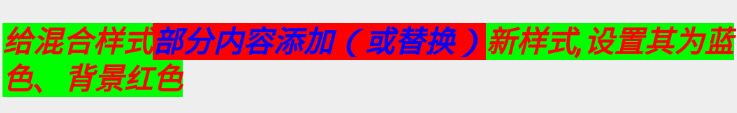
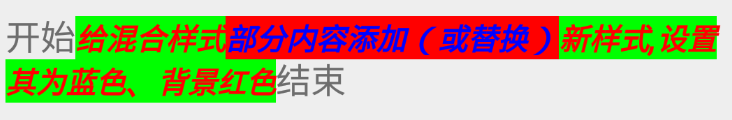
修改详细说明

diff --git a/app/src/main/java/com/zrq/spanbuilderdemo/MainActivity.java b/app/src/main/java/com/zrq/spanbuilderdemo/MainActivity.java
@@ -31,46 +31,48 @@ public class MainActivity extends AppCompatActivity {
 
         // 1.单个样式
         SpannableStringBuilder spannableStringBuilder = new SpannableStringBuilder()
-                .append(new SpanBuilder("字体30Sp\n").setTextSize(30))
-                .append(new SpanBuilder("字体红色\n").setTextColor(Color.RED))
-                .append(new SpanBuilder("字体背景绿色\n").setBackgroundColor(Color.GREEN))
-                .append(new SpanBuilder("粗斜体\n").setTextStyle(Typeface.BOLD_ITALIC))
-                .append(new SpanBuilder("自定义Style样式\n").
+                .append(new SpanBuilder("\n！！此页面看的的所有内容就是一个TextView\n\n").setBackgroundColor(Color.RED))
+                .append(new SpanBuilder("字体30Sp").setTextSize(30))
+                .append(new SpanBuilder("字体红色").setTextColor(Color.RED))
+                .append(new SpanBuilder("字体背景绿色").setBackgroundColor(Color.GREEN))
+                .append(new SpanBuilder("粗斜体").setTypeface(Typeface.BOLD_ITALIC))
+                .append(new SpanBuilder("自定义Style样式").
                         setTextAppearance(getApplicationContext(), android.R.style.TextAppearance_Small))
-                .append(new SpanBuilder("可点击\n").setClick(textView, new ClickableSpan() {
+                .append(new SpanBuilder("可点击").setClick(textView, new ClickableSpan() {
                     @Override
                     public void onClick(View widget) {
                         // ！！点击了内容，但是会触发TextView的点击事件
                         Toast.makeText(getApplicationContext(), "ClickSpan点击了", Toast.LENGTH_LONG).show();
                     }
                 }))
-                .append(new SpanBuilder("删除线\n").setDeleteLine())
-                .append(new SpanBuilder("下划线\n").setUnderLine())
-                .append(new SpanBuilder("此内容无效，会被图片给替换\n").setImage(drawable))
-                .append(new SpanBuilder("字体类型为serif\n").setTypeface("serif"))
+                .append(new SpanBuilder("删除线").setDeleteLine())
+                .append(new SpanBuilder("下划线").setUnderLine())
+                .append(new SpanBuilder("此内容无效，会被图片给替换").setImage(drawable))
+                .append(new SpanBuilder("字体类型为monospace\n").setFontFamily("monospace"))
                 .append(new SpanBuilder("设置蓝色的引用线\n").setQuote(Color.BLUE))
                 .append(new SpanBuilder("设置此内容的对齐方式为相反\n").setAlignment(Layout.Alignment.ALIGN_OPPOSITE))
-                .append(new SpanBuilder("设置字体大小为之前的1.2倍\n").setRelativeSize(1.2f))
+                .append("设置字体大小为之前的")
+                .append(new SpanBuilder("2倍\n").setRelativeSize(2.0f))
                 .append("这是")
-                .append(new SpanBuilder("上标\n").setUpLabel())
+                .append(new SpanBuilder("上标").setUpLabel())
                 .append("这是")
                 .append(new SpanBuilder("下标\n").setUnderLabel())
-                .append(new SpanBuilder("X轴缩放3倍\n").setScaleX(3f));
+                .append(new SpanBuilder("X轴缩放3倍\n\n").setScaleX(3f));
 
         // 2.混合样式
-        SpanBuilder spanBuilder = new SpanBuilder("\n\n此为混合样式应用于部分,设置字体15sp、红色、背景绿色、粗斜体\n\n\n")
+        SpanBuilder spanBuilder = new SpanBuilder("此为混合样式应用于部分,设置字体15sp、红色、背景绿色、粗斜体")
                 .setTextSize(15)
                 .setTextColor(Color.RED)
                 .setBackgroundColor(Color.GREEN)
-                .setTextStyle(Typeface.BOLD_ITALIC);
-        spannableStringBuilder.append(spanBuilder);
+                .setTypeface(Typeface.BOLD_ITALIC);
+        spannableStringBuilder.append("开始").append(spanBuilder).append("结束\n\n");
 
         // 3.给混合样式部分内容添加（或替换）新样式
-        SpanBuilder oldSpan = new SpanBuilder("给混合样式部分内容添加（或替换）新样式,设置其为蓝色、背景红色\n")
+        SpanBuilder oldSpan = new SpanBuilder("给混合样式部分内容添加（或替换）新样式,设置其为蓝色、背景红色")
                 .setTextSize(15)
                 .setTextColor(Color.RED)
                 .setBackgroundColor(Color.GREEN)
-                .setTextStyle(Typeface.BOLD_ITALIC);
+                .setTypeface(Typeface.BOLD_ITALIC);
 
         // 新样式的容器
         SpanBuilder newSpanStyle = new SpanBuilder()
@@ -79,7 +81,7 @@ public class MainActivity extends AppCompatActivity {
         // newSpanStyle里面的样式会添加（或替换）原来oldSpan的样式
         oldSpan.addNewSpanStyle(5, 16, newSpanStyle);
 
-        spannableStringBuilder.append(oldSpan);
+        spannableStringBuilder.append("开始").append(oldSpan).append("结束\n\n");
         // 4.添加其它样式
         // 4.1 作用于所有
         new SpanBuilder("X轴缩放3倍\n").setSpanAll(
@@ -99,7 +101,7 @@ public class MainActivity extends AppCompatActivity {
                 .append(new SpanBuilder("%\n").setTextSize(16).setTextColor(Color.BLACK));
 
         spannableStringBuilder
-                .append(new SpanBuilder("10").setTextSize(50).setTextColor(Color.RED).setTextStyle(Typeface.BOLD_ITALIC))
+                .append(new SpanBuilder("10").setTextSize(50).setTextColor(Color.RED).setTypeface(Typeface.BOLD_ITALIC))
                 .append(new SpanBuilder("元\n").setTextSize(16).setTextColor(Color.BLACK));
 
         spannableStringBuilder

diff --git a/spanbuilder/src/main/java/com/zrq/spanbuilder/SpanBuilder.java b/spanbuilder/src/main/java/com/zrq/spanbuilder/SpanBuilder.java
@@ -79,7 +79,7 @@ public class SpanBuilder extends SpannableString {
      *
      * @param style 设置字体类型    Typeface.BOLD_ITALIC,Typeface.BOLD,Typeface.ITALIC,Typeface.NORMAL
      */
-    public SpanBuilder setTextStyle(int style) {
+    public SpanBuilder setTypeface(int style) {
         setSpanAll(new StyleSpan(style));
         return this;
     }
@@ -142,9 +142,9 @@ public class SpanBuilder extends SpannableString {
     /**
      * 设置带有<font color="#ff0000" size="4"> 字体类型 </font>的元素
      *
-     * @param family 设置字体类型 "monospace", "serif", and "sans-serif".
+     * @param family 设置字体类型 "monospace", "serif", and "sans-serif"等
      */
-    public SpanBuilder setTypeface(String family) {
+    public SpanBuilder setFontFamily(String family) {
         setSpanAll(new TypefaceSpan(family));
         return this;
     }

diff --git a/README.md b/README.md
@@ -1,5 +1,5 @@
 # SpanBuilder
-##一个TextView可设置如下的效果
+## <font color="red"> 一个TextView可设置如下的效果</font>
 # 使用说明：
 
 ##导入
@@ -24,7 +24,7 @@ spannableStringBuilder
         .append(new SpanBuilder("%\n").setTextSize(16).setTextColor(Color.BLACK));
 
 spannableStringBuilder
-        .append(new SpanBuilder("10").setTextSize(50).setTextColor(Color.RED).setTextStyle(Typeface.BOLD_ITALIC))
+        .append(new SpanBuilder("10").setTextSize(50).setTextColor(Color.RED).setTypeface(Typeface.BOLD_ITALIC))
         .append(new SpanBuilder("元\n").setTextSize(16).setTextColor(Color.BLACK));
 
 spannableStringBuilder
@@ -42,31 +42,33 @@ textView.setText(spannableStringBuilder);
 ![image](https://github.com/zrq1060/SpanBuilderDemo/blob/master/screenshots/1.png)
 ```
 SpannableStringBuilder spannableStringBuilder = new SpannableStringBuilder()
-        .append(new SpanBuilder("字体30Sp\n").setTextSize(30))
-        .append(new SpanBuilder("字体红色\n").setTextColor(Color.RED))
-        .append(new SpanBuilder("字体背景绿色\n").setBackgroundColor(Color.GREEN))
-        .append(new SpanBuilder("粗斜体\n").setTextStyle(Typeface.BOLD_ITALIC))
-        .append(new SpanBuilder("自定义Style样式\n").
+        .append(new SpanBuilder("\n！！此页面看的的所有内容就是一个TextView\n\n").setBackgroundColor(Color.RED))
+        .append(new SpanBuilder("字体30Sp").setTextSize(30))
+        .append(new SpanBuilder("字体红色").setTextColor(Color.RED))
+        .append(new SpanBuilder("字体背景绿色").setBackgroundColor(Color.GREEN))
+        .append(new SpanBuilder("粗斜体").setTypeface(Typeface.BOLD_ITALIC))
+        .append(new SpanBuilder("自定义Style样式").
                 setTextAppearance(getApplicationContext(), android.R.style.TextAppearance_Small))
-        .append(new SpanBuilder("可点击\n").setClick(textView, new ClickableSpan() {
+        .append(new SpanBuilder("可点击").setClick(textView, new ClickableSpan() {
             @Override
             public void onClick(View widget) {
                 // ！！点击了内容，但是会触发TextView的点击事件
                 Toast.makeText(getApplicationContext(), "ClickSpan点击了", Toast.LENGTH_LONG).show();
             }
         }))
-        .append(new SpanBuilder("删除线\n").setDeleteLine())
-        .append(new SpanBuilder("下划线\n").setUnderLine())
-        .append(new SpanBuilder("此内容无效，会被图片给替换\n").setImage(drawable))
-        .append(new SpanBuilder("字体类型为serif\n").setTypeface("serif"))
+        .append(new SpanBuilder("删除线").setDeleteLine())
+        .append(new SpanBuilder("下划线").setUnderLine())
+        .append(new SpanBuilder("此内容无效，会被图片给替换").setImage(drawable))
+        .append(new SpanBuilder("字体类型为monospace\n").setFontFamily("monospace"))
         .append(new SpanBuilder("设置蓝色的引用线\n").setQuote(Color.BLUE))
         .append(new SpanBuilder("设置此内容的对齐方式为相反\n").setAlignment(Layout.Alignment.ALIGN_OPPOSITE))
-        .append(new SpanBuilder("设置字体大小为之前的1.2倍\n").setRelativeSize(1.2f))
+        .append("设置字体大小为之前的")
+        .append(new SpanBuilder("2倍\n").setRelativeSize(2.0f))
         .append("这是")
-        .append(new SpanBuilder("上标\n").setUpLabel())
+        .append(new SpanBuilder("上标").setUpLabel())
         .append("这是")
         .append(new SpanBuilder("下标\n").setUnderLabel())
-        .append(new SpanBuilder("X轴缩放3倍\n").setScaleX(3f));
+        .append(new SpanBuilder("X轴缩放3倍\n\n").setScaleX(3f));
 
 textView.setText(spannableStringBuilder);
 
@@ -75,24 +77,24 @@ textView.setText(spannableStringBuilder);
 
 ![image](https://github.com/zrq1060/SpanBuilderDemo/blob/master/screenshots/2.png)
 ```
-SpanBuilder spanBuilder = new SpanBuilder("\n\n此为混合样式应用于部分,设置字体15sp、红色、背景绿色、粗斜体\n\n\n")
+SpanBuilder spanBuilder = new SpanBuilder("此为混合样式应用于部分,设置字体15sp、红色、背景绿色、粗斜体")
         .setTextSize(15)
         .setTextColor(Color.RED)
         .setBackgroundColor(Color.GREEN)
-        .setTextStyle(Typeface.BOLD_ITALIC);
+        .setTypeface(Typeface.BOLD_ITALIC);
 
-textView.setText(span);
+textView.setText(new SpannableStringBuilder().append("开始").append(spanBuilder).append("结束\n\n"));
 
 ```
 ##用法 3之给混合样式部分内容添加（或替换）新样式：
 
 ![image](https://github.com/zrq1060/SpanBuilderDemo/blob/master/screenshots/3.png)
 ```
-SpanBuilder oldSpan = new SpanBuilder("给混合样式部分内容添加（或替换）新样式,设置其为蓝色、背景红色\n")
+SpanBuilder oldSpan = new SpanBuilder("给混合样式部分内容添加（或替换）新样式,设置其为蓝色、背景红色")
         .setTextSize(15)
         .setTextColor(Color.RED)
         .setBackgroundColor(Color.GREEN)
-        .setTextStyle(Typeface.BOLD_ITALIC);
+        .setTypeface(Typeface.BOLD_ITALIC);
 
 // 新样式的容器
 SpanBuilder newSpanStyle = new SpanBuilder()
@@ -101,7 +103,7 @@ SpanBuilder newSpanStyle = new SpanBuilder()
 // newSpanStyle里面的样式会添加（或替换）原来oldSpan的样式
 oldSpan.addNewSpanStyle(5, 16, newSpanStyle);
 
-textView.setText(oldSpan);
+textView.setText(new SpannableStringBuilder().append("开始").append(oldSpan).append("结束\n\n"));
 ```
 ##用法 4之扩展：添加自定义样式
 ```
